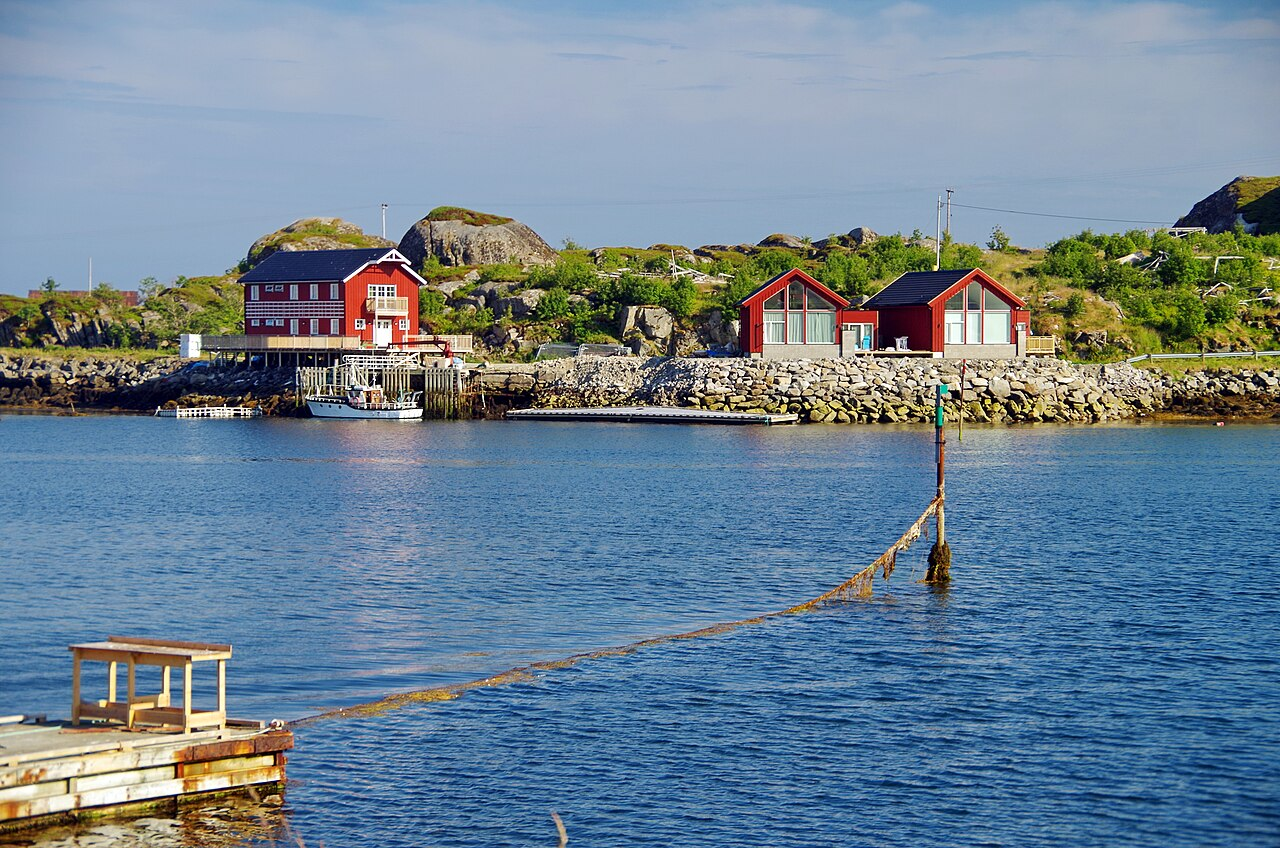
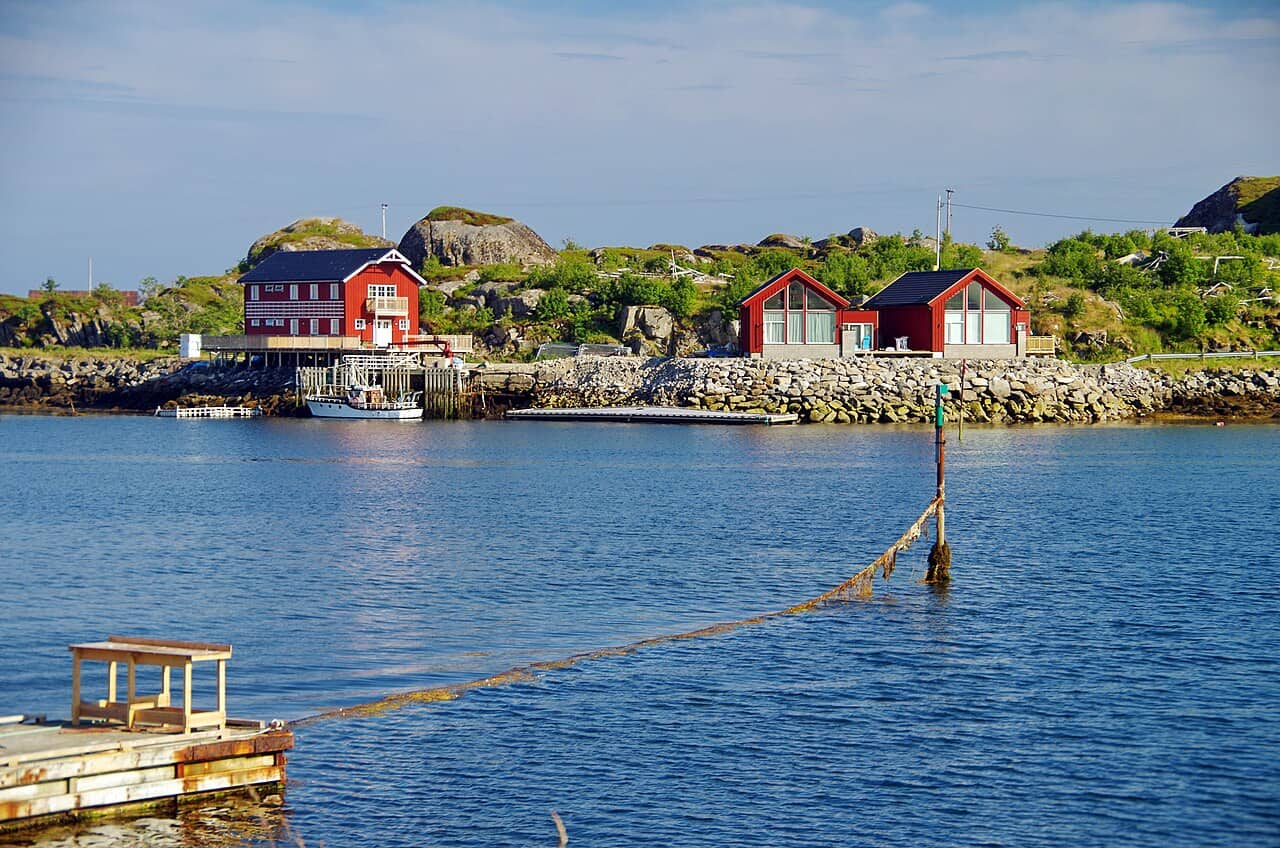
design: ekte Ballstad-foto + flisene som samler seg + optimaliserte bilder
Punkt 6-8 fra ytelses-/designlista.

BILDENE OPTIMALISERT (-1 123 KB på disk)
De seks ubrukte bildene var 1280 px brede på 278-440 KB — 5-8x tyngre per piksel
enn hero-bg.jpg (1920 px på 56 KB). Rekomprimert med mozjpeg (sharp, kjørt i en
midlertidig mappe utenfor prosjektet — ingen ny avhengighet i repoet).
  bilder/ totalt: 2 430 KB -> 1 307 KB
Viktigst for besøkende: 3-havfiske.jpg gikk 320 -> 69 KB. Det vises kun som
dekorbakgrunn bak #opplevelser på 34 % opasitet, og var sidens tyngste fil for
noe man knapt ser. -251 KB uten synlig forskjell.

FULLBREDDE FOTO-BÅND ETTER "OM OSS" (nytt)
Bruker 1b-rorbuer.jpg — rorbuer og fiskebåt i Ballstad havn. Ekte sted, ikke
stock, ikke AI. Lagt rett etter teksten om de to jordmødrene, så påstanden
"her i Lofoten" får et bilde å hvile på.

Bildeteksten er bevisst satt som et museums-/galleriskilt: versaler, 0.22em
bokstavavstand, liten grad, dempet. Det er typografien gallerier og museer
bruker, og den leser som "ekte sted" i stedet for dekor. Designresearchen pekte
på nettopp caption-laget som det billigste troverdighets-grepet som finnes — og
mer treffsikkert mot "AI-bygget"-inntrykket enn emoji-fjerningen var.
width/height er satt på <img> så det ikke oppstår hopp mens siden laster.

KOLLEKTIVT MALERI: FLISENE SAMLER SEG (nytt)
Seksjonens hele budskap er "ett bilde delt i 4-20 fliser, malt av mange hender,
satt sammen igjen". Det ble fortalt med ett flatt foto. Nå VISES mekanismen:
[…]

diff --git a/public/index.html b/public/index.html
@@ -206,6 +206,41 @@
        designet i stedet for å gjenopplive gjetninger. Ligger i git-loggen.
        NB: .mosaikk-bildetekst under er IKKE død — den er i bruk. */
     .mosaikk-bildetekst{font-family:'Caveat',cursive;text-align:center;color:var(--myk);font-size:1.25rem;margin-top:14px;}
+
+    /* ---------- Kollektivt maleri: flisene som samler seg ---------- */
+    /* Seksjonens hele budskap er "ett bilde delt i fliser, malt av mange hender,
+       satt sammen igjen". Det ble tidligere fortalt med ett flatt foto. Nå VISES
+       mekanismen: flisene kommer inn spredt og legger seg på plass.
+       Bygges av JS som progressiv forbedring — <img> ligger i HTML og vises hvis
+       JS, grid eller redusert bevegelse gjør at effekten ikke skal kjøre. */
+    .flis-verk{display:grid;grid-template-columns:repeat(3,1fr);grid-template-rows:repeat(4,1fr);
+      gap:4px;aspect-ratio:662/1040;border-radius:20px;overflow:hidden;
+      box-shadow:0 18px 50px rgba(10,79,94,.22);background:var(--hav-dyp);}
+    .flis-verk .flis{
+      background-image:var(--verk);background-repeat:no-repeat;background-size:300% 400%;
+      opacity:0;transform:translate(var(--dx),var(--dy)) rotate(var(--rot)) scale(.86);
+      transition:transform .95s cubic-bezier(.22,.9,.24,1),opacity .55s ease-out;
+      transition-delay:var(--pause);will-change:transform,opacity;}
+    .flis-verk.samlet .flis{opacity:1;transform:none;}
+    /* Når alt har landet slipper vi will-change igjen — ingen grunn til å holde
+       tolv lag på GPU-en resten av besøket. */
+    .flis-verk.ferdig .flis{will-change:auto;transition-delay:0s;}
+    @media(prefers-reduced-motion:reduce){
+      .flis-verk .flis{transition:none;opacity:1;transform:none;}
+    }
+
+    /* ---------- Fullbredde foto-bånd ---------- */
+    /* Bildeteksten er bevisst satt som et galleriskilt: versaler, stor
+       bokstavavstand, liten grad, dempet farge — den samme typografien museer
+       og gallerier bruker. Det leser som «ekte sted», ikke som dekor. */
+    .foto-band{margin:0;position:relative;line-height:0;}
+    .foto-band img{width:100%;height:clamp(320px,52vh,560px);object-fit:cover;display:block;}
+    .foto-band figcaption{position:absolute;left:0;right:0;bottom:0;padding:56px 24px 22px;line-height:1.5;
+      display:flex;flex-direction:column;align-items:center;gap:4px;text-align:center;
+      background:linear-gradient(to top,rgba(6,26,45,.72),transparent);}
+    .foto-band .fb-sted{font-family:'Inter',sans-serif;text-transform:uppercase;letter-spacing:.22em;
+      font-size:.74rem;font-weight:600;color:#fff;}
+    .foto-band .fb-note{font-family:'Inter',sans-serif;font-size:.8rem;color:rgba(255,255,255,.72);}
     .pris-boks{background:var(--sand);border:1px solid var(--sand-mork);border-radius:16px;padding:24px 26px;margin-top:26px;}
     .pris-boks .pris-stor{font-family:'Fraunces',serif;font-size:1.5rem;color:var(--leire-mork);margin-bottom:14px;}
     .pris-liste{list-style:none;margin:0 0 14px;padding:0;}
@@ -530,6 +565,18 @@
     <p class="sitat reveal delay-2" data-no="«Vi er det første stedet i Lofoten med et helårs keramikk- og kunsttilbud — og vi er her for å bli.»" data-en="“We are the first place in Lofoten with a year-round ceramics and art offering — and we are here to stay.”">«Vi er det første stedet i Lofoten med et helårs keramikk- og kunsttilbud — og vi er her for å bli.»</p>
   </div></section>
 
+  <!-- STEDET: fullbredde-bånd med ekte Ballstad-foto. Bildeteksten er satt som
+       et museums-/galleriskilt (sted · årstid · fotograf) — det er den billigste
+       troverdighets-markøren som finnes, og den er umulig å forfalske. -->
+  <figure class="foto-band reveal">
+    <img src="bilder/1b-rorbuer.jpg" width="1280" height="848" loading="lazy" decoding="async"
+         alt="Rorbuer og fiskebåt i Ballstad havn, Lofoten" />
+    <figcaption>
+      <span class="fb-sted" data-no="Ballstad, Lofoten" data-en="Ballstad, Lofoten">Ballstad, Lofoten</span>
+      <span class="fb-note" data-no="Havna rett utenfor studioet" data-en="The harbour just outside the studio">Havna rett utenfor studioet</span>
+    </figcaption>
+  </figure>
+
   <!-- NYHETER -->
   <section id="nyheter" class="nyheter full"><div style="max-width:1180px;margin:0 auto;padding:0 24px;">
     <h2 class="seksjon-tittel reveal" data-no="Nyheter" data-en="News">Nyheter</h2>
@@ -704,6 +751,64 @@
     /* karRull() fjernet 2026-08-07 — den slo opp document.getElementById('kar'),
        en id som ikke finnes i dokumentet, og ville kastet på null. Ingen kalte
        den. Karusellen styres av pil-koden lenger oppe. */
+
+    /* ---- Kollektivt maleri: flisene samler seg ----
+       Progressiv forbedring. <img> ligger i HTML og er det som vises hvis noe av
+       dette ikke går: ingen JS, redusert bevegelse, eller manglende støtte.
+       Forskyvningene er DETERMINISTISKE (utledet av flis-indeksen), ikke
+       tilfeldige — tilfeldig spredning ser ulik ut for hver besøkende og leser
+       som støy. Fast spredning leser som komposisjon. */
+    (function(){
+      var vert = document.querySelector('.havvegg-foto');
+      if (!vert) return;
+      var img = vert.querySelector('img');
+      if (!img || !('IntersectionObserver' in window)) return;
+      if (window.matchMedia('(prefers-reduced-motion: reduce)').matches) return;
+
+      var KOL = 3, RAD = 4;
+
+      function bygg(){
+        var verk = document.createElement('div');
+        verk.className = 'flis-verk';
+        verk.style.setProperty('--verk', "url('" + img.getAttribute('src') + "')");
+        verk.setAttribute('role', 'img');
+        verk.setAttribute('aria-label', img.alt || '');
+
+        for (var r = 0; r < RAD; r++) {
+          for (var k = 0; k < KOL; k++) {
+            var f = document.createElement('span');
+            f.className = 'flis';
+            // Utsnitt: samme bilde i hver flis, forskjøvet som et sprite-ark.
+            f.style.backgroundPosition = (k / (KOL - 1) * 100) + '% ' + (r / (RAD - 1) * 100) + '%';
+            // Spredning ut fra midten, så de "faller inn mot" hverandre.
+            var dx = (k - (KOL - 1) / 2) * 26;
+            var dy = (r - (RAD - 1) / 2) * 20;
+            f.style.setProperty('--dx', dx.toFixed(0) + 'px');
+            f.style.setProperty('--dy', dy.toFixed(0) + 'px');
+            f.style.setProperty('--rot', (((k + r) % 3) - 1) * 2.4 + 'deg');
+            // Nederste rad lander sist — verket bygger seg oppover.
+            f.style.setProperty('--pause', (r * 90 + k * 45) + 'ms');
+            verk.appendChild(f);
+          }
+        }
+        return verk;
+      }
+
+      var verk = bygg();
+      img.style.display = 'none';
+      vert.appendChild(verk);
+
+      var io = new IntersectionObserver(function(poster){
+        poster.forEach(function(p){
+          if (!p.isIntersecting) return;
+          verk.classList.add('samlet');
+          io.unobserve(p.target);
+          // Siste flis: 3*90 + 2*45 = 360 ms forsinkelse + 950 ms overgang.
+          setTimeout(function(){ verk.classList.add('ferdig'); }, 1400);
+        });
+      }, { threshold: 0.25 });
+      io.observe(verk);
+    })();
 
     /* ---- Booking ---- */
     // Booking-skjema -> plattformens database (/api/bookings). Backend varsler Discord automatisk.
